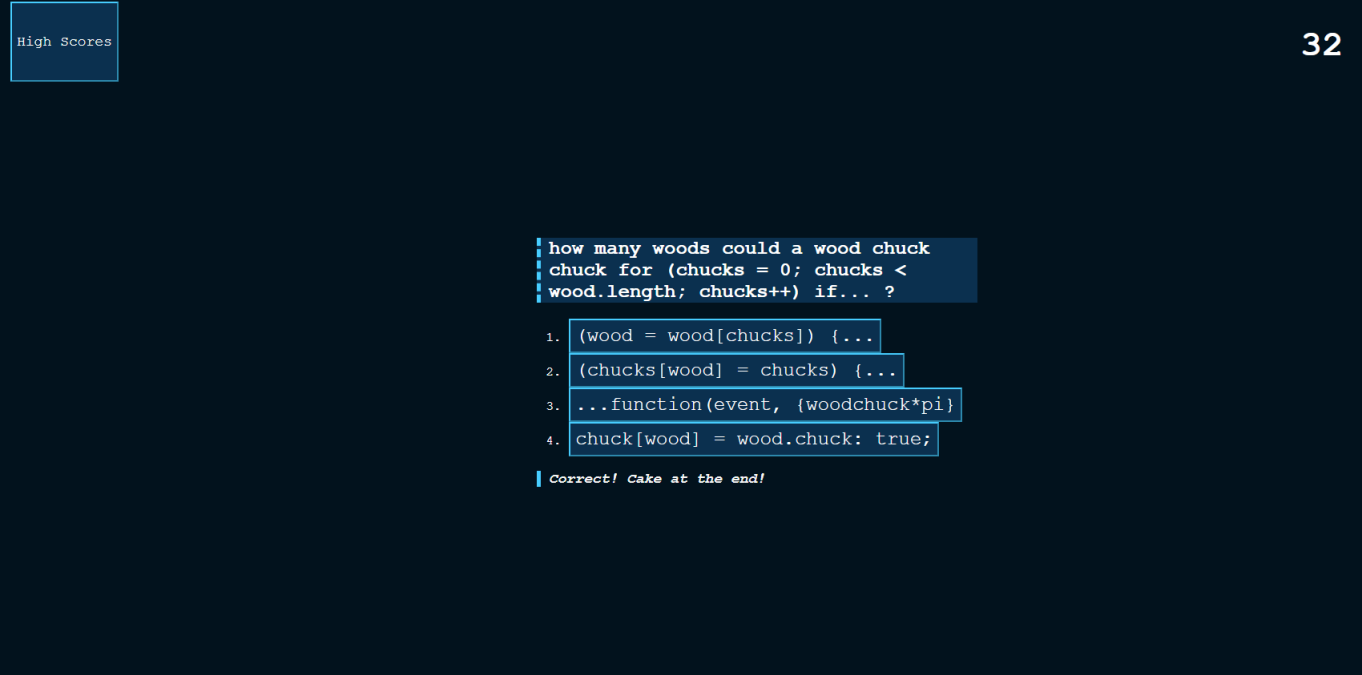
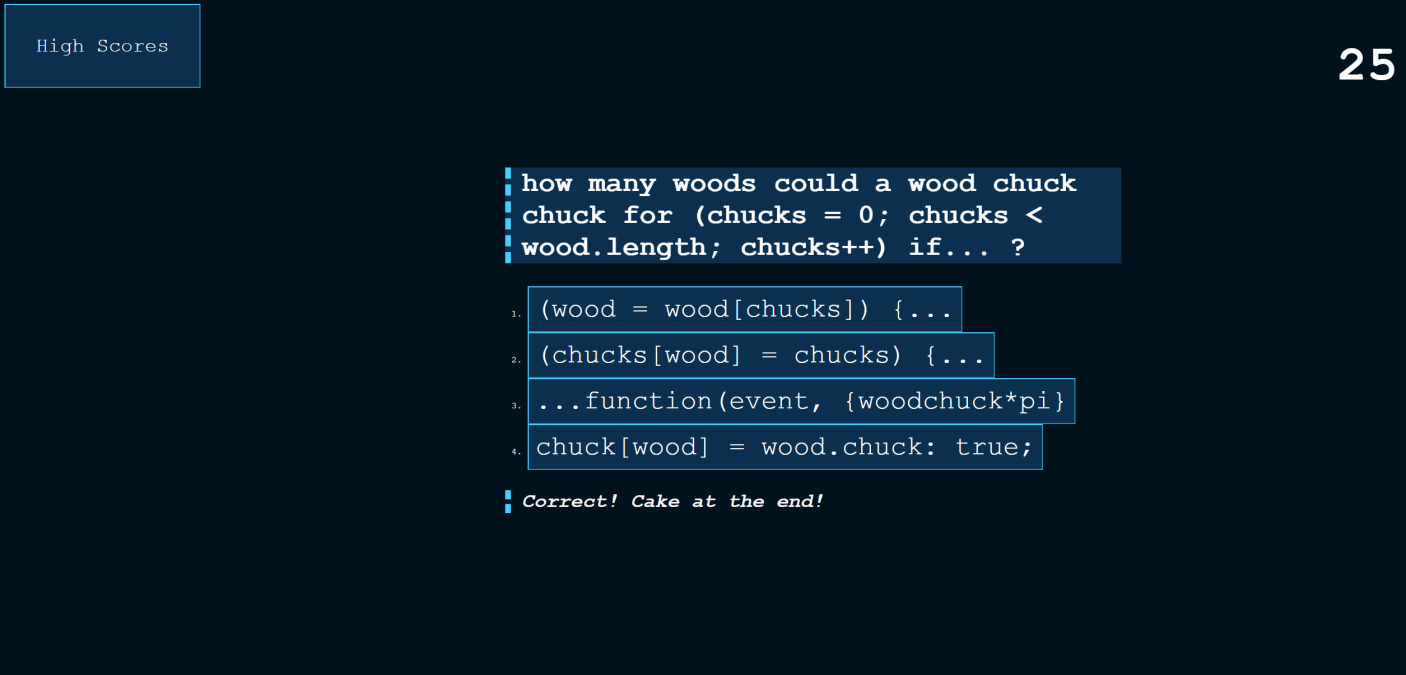
made everything bigger to better match mockup

Changed region(s): [[0.3392, 0.2489, 0.8018, 0.7778], [0.0, 0.0, 0.1542, 0.1556], [0.9559, 0.0311, 1.0, 0.1244]]

diff --git a/assets/css/style.css b/assets/css/style.css
@@ -27,9 +27,9 @@ header {
     border-color:rgb(0, 204, 255);
     color:white;
     padding:6px;
-    max-height: 100px;
-    min-width: 125px;
-    font-size: 18px;
+    max-height: 200px;
+    min-width: 350px;
+    font-size: 36px;
 }
 
 footer {
@@ -45,85 +45,88 @@ footer {
 main { 
     display: flex;
     flex-direction: column;
-    width:400px;
-    height: 300px;
+    width:800px;
+    height: 600px;
     background-color: rgb(0, 18, 29);
     min-height: 100vh;
     margin-left: auto;
     margin-right: auto;
-    margin-top: 100px;
+    margin-top: 50px;
 }
 
 main section {
     background-color: rgb(0, 18, 29);
-    min-height: 300px;
-    width: 600px;
-    padding: 25px;
+    min-height: 600px;
+    width: 1200px;
+    padding: 50px;
 }
 
 main p {
     color: white;
-    font-size: 20px;
-    padding: 15px;
+    font-size: 40px;
+    padding: 30px;
 }
 main h2 {
     background-color: rgb(0, 48, 78);
     border-left-style: dashed;
-    border-width: 5px;
+    border-width: 10px;
     border-color:rgb(0, 204, 255);
     color:white;
-    padding-left: 10px;
+    padding-left: 20px;
+    font-size: 50px;
 }
 
 main h1{
     background-color: rgb(0, 48, 78);
     border-left-style: dashed;
-    border-width: 5px;
+    border-width: 10px;
     border-color:rgb(0, 204, 255);
     color:white;
-    padding-left: 10px;
+    padding-left: 20px;
+    font-size: 50px;
 }
 
 main h3 {
     border-left-style: dashed;
-    border-width: 5px;
+    border-width: 10px;
     border-color:rgb(0, 204, 255);
     color:white;
-    padding-left: 10px;
+    padding-left: 20px;
+    font-size: 24px;
 }
 
 .answerButton {
     background-color: rgb(0, 48, 78);
     border-color:rgb(0, 204, 255);
-    font-size: 24px;
+    font-size: 48px;
     color:white;
-    padding:6px;
+    padding:12px;
 }
 
 #start-button{
     background-color: rgb(0, 48, 78);
     border-color:rgb(0, 204, 255);
-    font-size: 18px;
+    font-size: 36px;
     color:white;
-    padding:6px;
+    padding:12px;
 
 }
 
 #clear-button{
     background-color: rgb(0, 48, 78);
     border-color:rgb(0, 204, 255);
-    font-size: 18px;
+    font-size: 36px;
     color:white;
-    padding:6px;
+    padding:12px;
 
 }
 
 #user-initials-button{
     background-color: rgb(0, 48, 78);
     border-color:rgb(0, 204, 255);
-    font-size: 18px;
+    font-size: 36px;
     color:white;
-    padding:6px;
+    padding:12px;
 }
 
 .mainwrapper { 
@@ -141,7 +144,7 @@ main h3 {
 #answer-status {
     color: whitesmoke;
     font-style: italic;
-    font-size: 18px;
+    font-size: 36px;
 }
 
 li::marker {
@@ -159,11 +162,19 @@ li::marker {
     border-left-style: dashed;
     border-color: cyan;
     border-width: 3px;
-    font-size: 20px;
-    padding: 5px;
+    font-size: 40px;
+    padding: 10px;
 }
 
 #timer {
     color: white;
-    font-size: 45px;
+    font-size: 90px;
+}
+
+#user-initials {
+    height: 50px;
+}
+
+#user-initials text {
+    font-size: 36px;
 }
